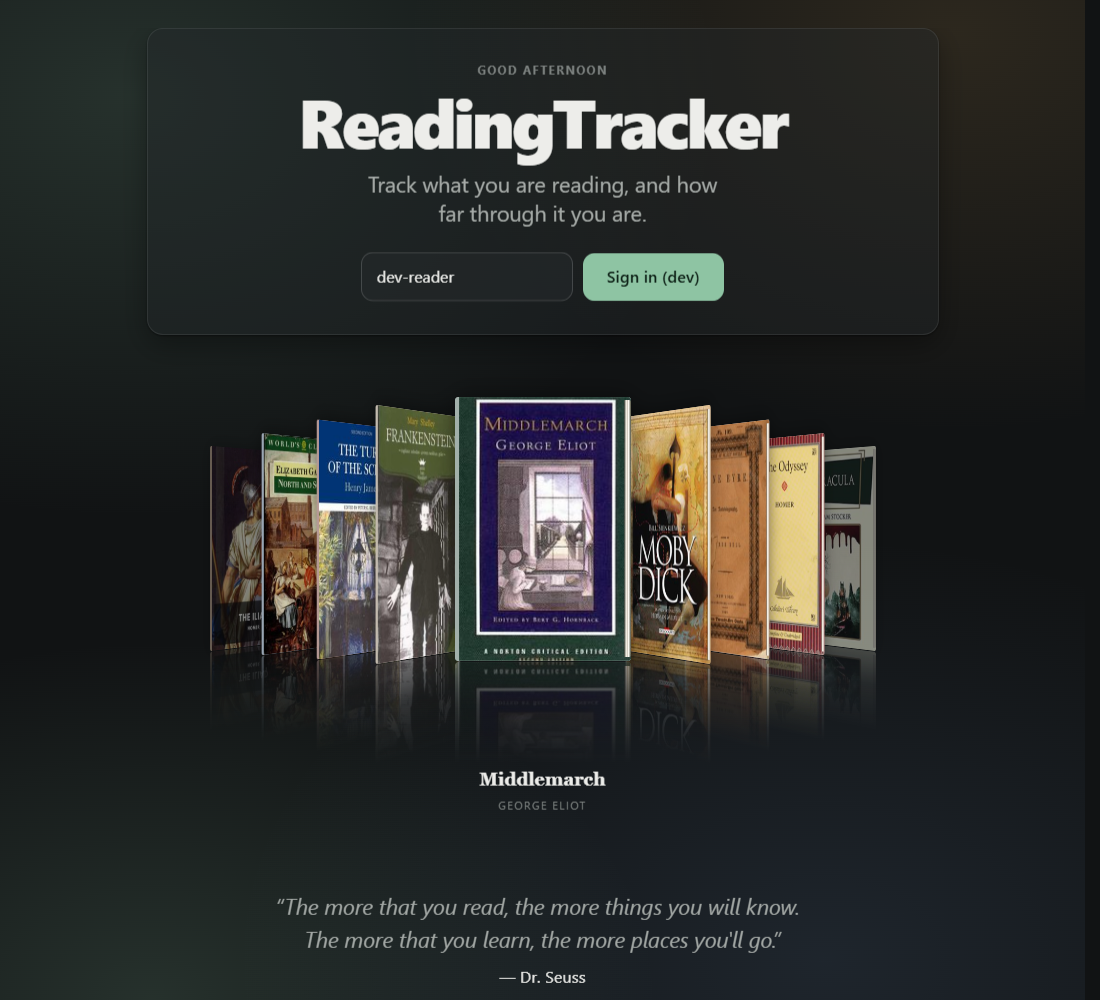
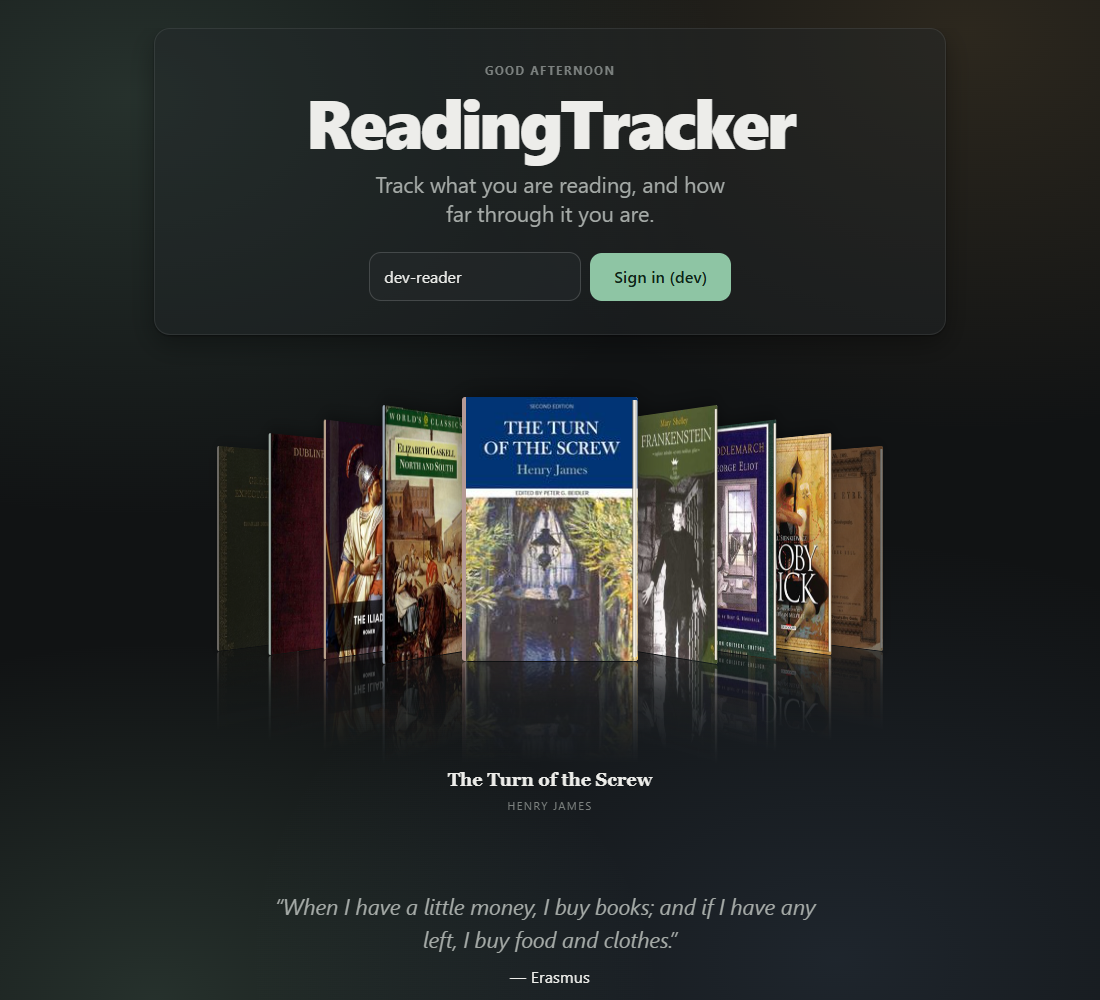
The README shows the book page, Quotes and the year of reading
The pictures dated from late September, before the book page, Quotes, the
reading stats, the device's bookmark on the card and the export. All fourteen
are retaken from one made-up local shelf (demo-reader, 26 books, a year of
sessions, five Quotes on Piranesi), in dark and en-GB as before; four are new:
the book page, the Quotes sheet on a wide screen and opened on a phone, and
the year of reading.

The text around them says what is new: the Pi it runs on, the plugin's
Quotes and its wifi updates, the book page, and Library's goal and Quotes.

diff --git a/README.md b/README.md
@@ -6,56 +6,71 @@ Built as a portfolio project, with the weight on the back end: several small ser
 
 ## Status
 
-**Catalog**, **Library**, the **Gateway** and **Web** are built. A reader signs in, finds a book, puts it on their shelf, records what they read, and watches their progress move — end to end, through the real services.
+**Catalog**, **Library**, the **Gateway** and **Web** are built, and run for real on a Raspberry Pi behind Tailscale Funnel (ADR-0012). A reader signs in, finds a book, puts it on their shelf, records what they read, and watches their progress move — end to end, through the real services. A [KOReader plugin](readingtracker.koplugin/) puts an e-reader on the same shelf: it reports how far through the book the device is, saves highlighted passages as Quotes, and can update itself over wifi.
 
 | Service | What it does | Status |
 | --- | --- | --- |
 | Catalog | Finds books via Google Books and Open Library, caches them, gives them stable ids | Built |
-| Library | A reader's own books: reading status, progress, and reading history | Built |
+| Library | A reader's own books: reading status, progress, reading history, the year's goal, and Quotes | Built |
 | Gateway | Single entry point; verifies the caller's token and names the reader | Built |
 | Web | Blazor WebAssembly front end: the shelf, and everything a reader does to it | Built |
 | Identity | Maps a Google account to an internal reader | Designed |
 
-On the shelf, each book carries its reading status, a progress bar derived from what the reader has actually logged, and — behind one click each — reading history, the reader's own page count and tracking method, and removal. Progress is never stored: Library works it out from the latest ReadingSession every time it is asked, so the number and the history behind it cannot disagree.
+On the shelf, each book carries its reading status, a progress bar derived from what the reader has actually logged, and — behind one click each — reading history, the reader's own page count and tracking method, and removal. Each book also has a page of its own: its description, its pace, the last three weeks of reading, and the passages the reader kept from it. Progress is never stored: Library works it out from the latest ReadingSession every time it is asked, so the number and the history behind it cannot disagree.
 
 > **Everything through the Gateway now needs a verified token.** It verifies the token against Google's published keys, discards whatever `X-Reader-Id` the caller sent, and sets that header itself from the token's subject. `/health` is the only route that answers without one. Locally you sign in without a Google account at all — see [Signing in locally](#signing-in-locally-without-a-google-account).
 
 ## What it looks like
 
-The shelf, grouped by status with what is being read at the top, and the year's goal in the header:
+The shelf, grouped by status with what is being read at the top, and the year's goal in the header. A book read on an e-reader also shows where the device last reported it:
 
-![The shelf on the All tab: each book a card with its cover, a status pill and a progress bar, Reading at the top and then Want to read, each group under its own heading; the header shows 11 of 24 books towards the year's goal](docs/screenshots/shelf.png)
+![The shelf on the All tab: each book a card with its cover, a status pill and a progress bar, Reading at the top and then Want to read, each group under its own heading; Piranesi says it is at 63% on the device, and the header shows 14 of 24 books towards the year's goal](docs/screenshots/shelf.png)
 
 Logging a session is one form on the card — say where you stopped — and the sessions behind the bar are a click away:
 
-![A shelf card with the Log reading form open: stopped at page 12 of 231 on a slider, logged for today, with a link to change the day or add the time it took](docs/screenshots/log-reading.png)
+![A shelf card with the Log reading form open: stopped at page 141 of 231 on a slider, logged for today, with a link to change the day or add the time it took](docs/screenshots/log-reading.png)
 
-![The same card with its History open: 12 pages on Monday 21 Sept, with Correct and Delete](docs/screenshots/history.png)
+![The same card with its History open: 23 pages today, 7 yesterday and 15 on Wednesday, each with Correct and Delete](docs/screenshots/history.png)
+
+Each book has its own page — the description, how fast it is going and when it will be done at that pace, the last three weeks of reading, its Quotes and its history:
+
+![The Piranesi page: cover, author, publisher and genres, the description, then 61%, 7.4 pages a day, 19 days reading and finishing on 30 Oct at this pace, a bar chart of pages a day, the first two of five Quotes, and the history](docs/screenshots/book.png)
+
+A Quote is a passage highlighted on the e-reader and sent from KOReader's highlight menu with **Save to ReadingTracker**. The book's Quotes open in a sheet, in book order, with a line showing where each falls and where the reader is now; one opened shows its note, chapter and day, with Copy, Edit note and Delete:
+
+<p>
+  <img src="docs/screenshots/quotes.png" width="560" alt="The Quotes side sheet over the Piranesi page on a wide screen: a line from Start to End with a mark for each of the five Quotes, then the passages with their percentages" />
+  <img src="docs/screenshots/quotes-phone.png" width="260" alt="The same Quotes as a sheet from the foot of a phone, one Quote opened: its passage, the note 'This is the whole book in one line.', Part 2, saved 3 Oct, and Copy, Edit note and Delete" />
+</p>
+
+The year of reading, a square a day, with the runs and the reader's day of the week:
+
+![Your reading: a year of squares from January to December, greener for more pages; Saturday 17 October picked, with the three books read that day; Saturdays the reader's day; now 2 days in a row, the longest run 8 days, 174 of 290 days read, and the biggest day 209 pages](docs/screenshots/reading.png)
 
 Finished books say when, and sit in that order; the year's goal opens from the header:
 
-![The Finished tab: cards each saying Read, all N pages, and the day it was finished, newest first](docs/screenshots/finished.png)
+![The Finished tab: cards each saying Read, with the day it was finished, newest first](docs/screenshots/finished.png)
 
-![The goal popover: 11 of 24 books in 2026, 7 behind pace, and a field to change the goal](docs/screenshots/goal.png)
+![The goal popover: 14 of 24 books in 2026, 6 behind pace, and a field to change the goal](docs/screenshots/goal.png)
 
-A device token puts an e-reader on the shelf without a Google sign-in — the [KOReader plugin](readingtracker.koplugin/) syncs progress from the device — and an export from Hardcover, Goodreads or StoryGraph lands in one go:
+A device token puts an e-reader on the shelf without a Google sign-in, and an export from Hardcover, Goodreads or StoryGraph lands in one go — the shelf goes back out the same way, as one CSV all three take in:
 
 ![Your devices: a freshly minted token for a Kindle Paperwhite, shown once, and the device listed below with Never used](docs/screenshots/devices.png)
 
-![Import from Goodreads: the source picked on the left with the steps to export, the file's 25 books counted by status and one button; on the right the books grouped by status with their authors and finish dates](docs/screenshots/import.png)
+![Import and export, with Goodreads picked: the steps to export, the file's 14 books counted by status and one button; on the right the books grouped by status with their authors and finish dates](docs/screenshots/import.png)
 
 The shelf on a phone, and the account menu:
 
 <p>
-  <img src="docs/screenshots/phone.png" width="300" alt="The shelf on a phone, on the Reading tab: the same cards in one column, with a round add button in the corner" />
-  <img src="docs/screenshots/account-menu.png" width="420" alt="The account menu: signed in as, Devices, Import, a Dark mode switch, Sign out" />
+  <img src="docs/screenshots/phone.png" width="300" alt="The shelf on a phone, on the Reading tab: the same cards in one column, each with a wide Log reading button, and a round add button in the corner" />
+  <img src="docs/screenshots/account-menu.png" width="420" alt="The account menu: signed in as, Your reading, Devices, Import and export, a Dark mode switch, Sign out" />
 </p>
 
-Signed out, the welcome page keeps a reader company with a quote:
+Signed out, the welcome page keeps a reader company with a saying about reading:
 
-![The welcome page: a greeting, the dev sign-in, a fan of book covers with Middlemarch in front, and a quote about reading](docs/screenshots/welcome.png)
+![The welcome page: a greeting, the dev sign-in, a fan of book covers with Jane Eyre in front, and a saying by Harper Lee](docs/screenshots/welcome.png)
 
-The pictures are of a local run with the dev sign-in; the token shown was revoked as soon as the picture was taken.
+The pictures are of a local run with the dev sign-in and a made-up shelf; the token shown was revoked as soon as the picture was taken.
 
 ## Running it locally
 
@@ -198,5 +213,5 @@ packages, the Dockerfiles' base images and the workflows' Actions weekly.
 
 ## Design documentation
 
-- [`CONTEXT.md`](./CONTEXT.md) — the domain glossary. Worth reading first: it defines `Book`, `LibraryEntry`, `ReadingSession`, `ReadingStatus` and `TrackingMethod`, and is deliberately free of implementation detail.
+- [`CONTEXT.md`](./CONTEXT.md) — the domain glossary. Worth reading first: it defines `Book`, `LibraryEntry`, `ReadingSession`, `ReadingStatus`, `TrackingMethod`, `Bookmark` and `Quote`, and is deliberately free of implementation detail.
 - [`docs/adr/`](./docs/adr/) — architectural decisions and, more usefully, why the alternatives were rejected.
